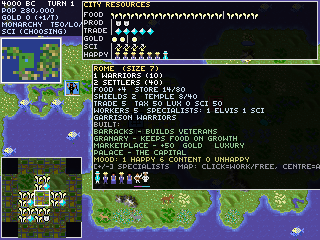
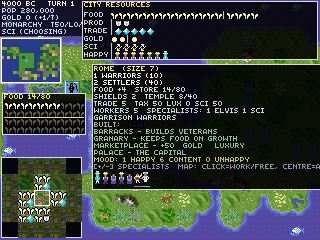
Add a Food Store (granary box) pane to the city screen
A grid of food icons on the left shows the food banked toward the next
citizen: bright icons for what's stored, dim for what's still needed, with
a yellow line at the half-level a granary keeps after growth.  Icons scale
to >1 food each for large cities so the box always fits.

Changed region(s): [[0.0, 0.3792, 0.2812, 0.5833]]

diff --git a/README.md b/README.md
@@ -119,6 +119,10 @@ food (wheat), production (shields), trade (arrows), gold, science and happiness
 (food eaten, gold upkeep, unhappy citizens) on the left and its **surplus** (food
 toward growth, net profit, happy citizens) on the right.
 
+On the left, a **Food Store** pane is the granary box: a grid of food icons for
+the food banked toward the next citizen (bright = stored, dim = still needed),
+with a yellow line at the half level a granary keeps when the city grows.
+
 Along the bottom of the panel runs a **population bar**, one little citizen
 sprite per inhabitant (the original SP257 figures): happy, content and unhappy
 faces for the tile-workers, then the **specialists**. Citizens who aren't working
